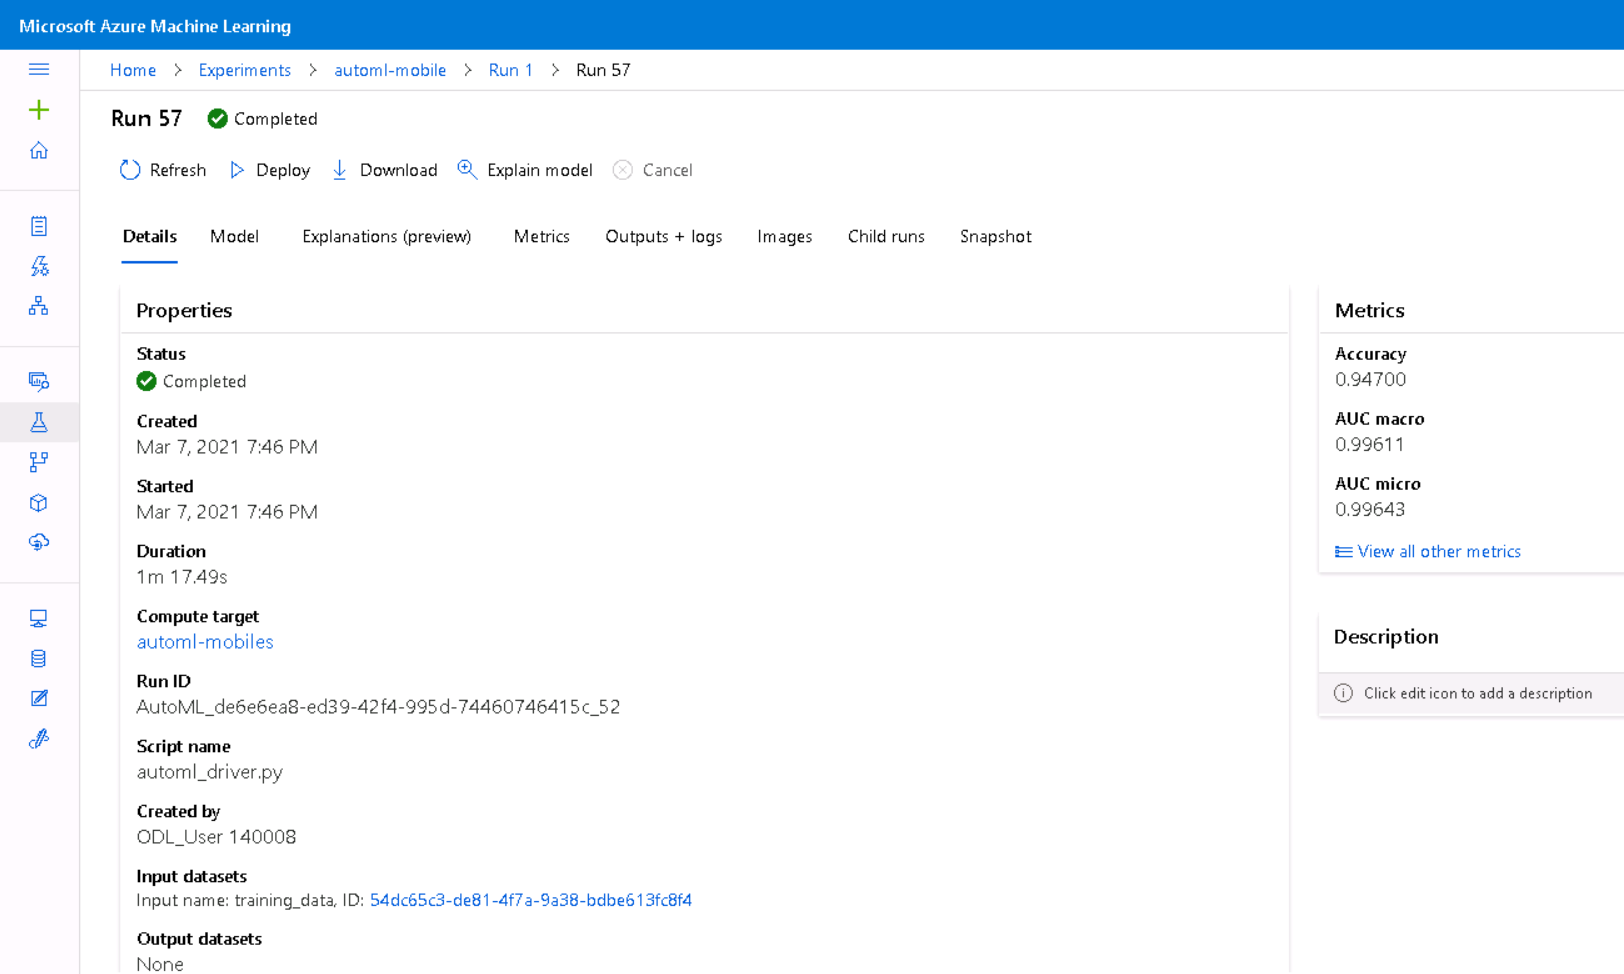
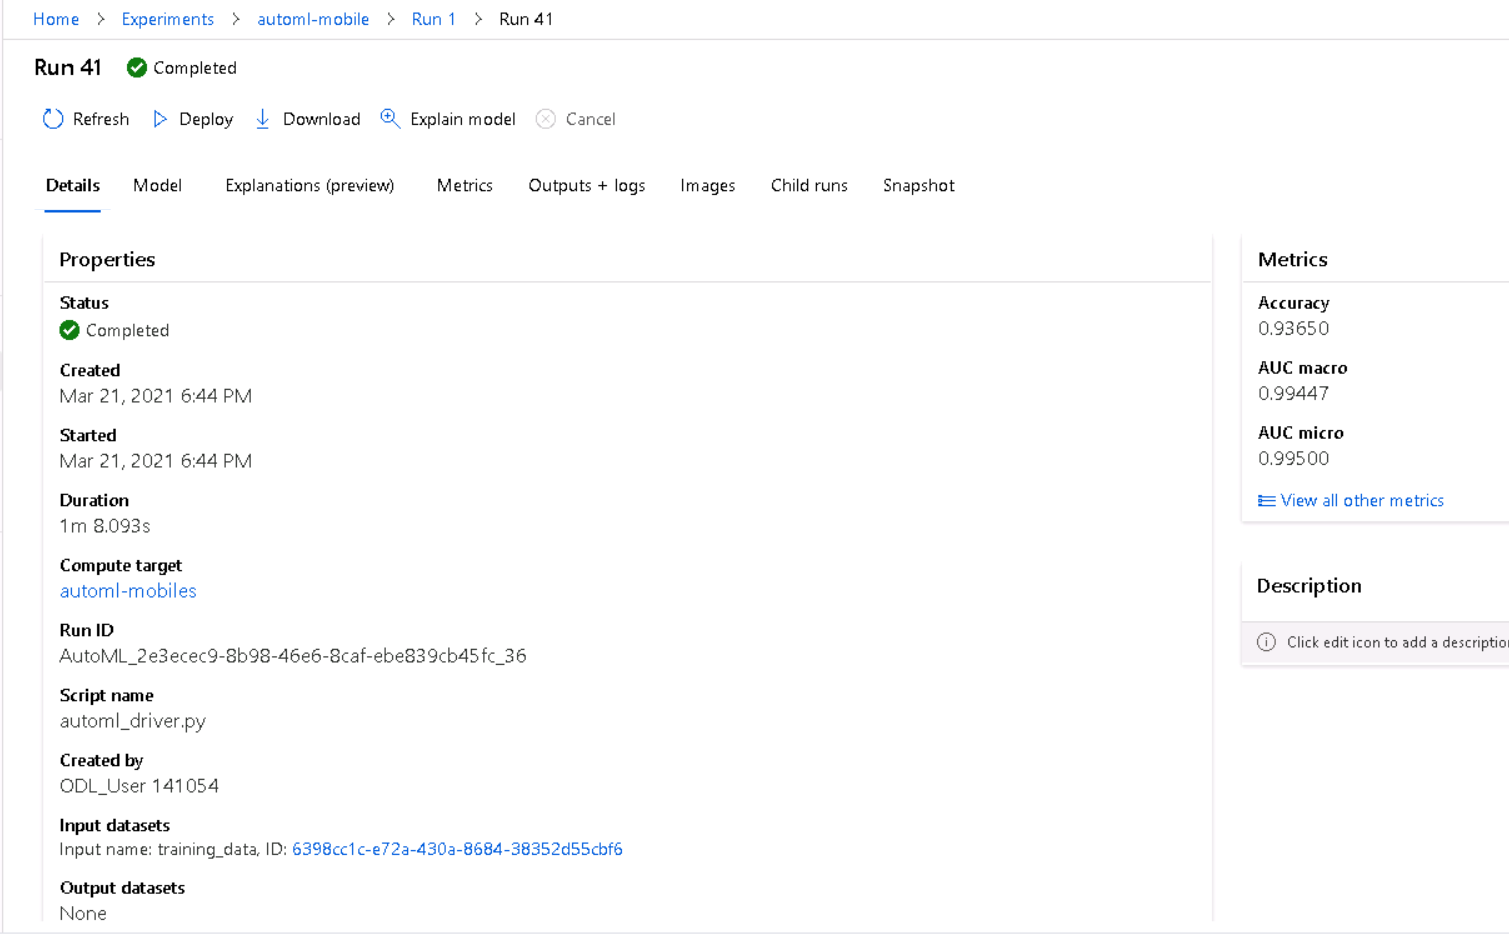
pre-submission

diff --git a/README.md b/README.md
@@ -109,6 +109,14 @@ consume this dataset.
 </figure>
 
 ## Automated ML
+
+**IMPORTANT**
+
+To run the AutoML part, you have to upload these files:
+1. Upload automl.ipynb to Notebooks VM
+2. Upload dependencies folder
+3. Upload scoring_file_v_1_0_0_0.py
+
 Once we have some sensitivity about data, we are going to train a classifier 
 using an ML model. Modeling is an art but we have some interesting tools that 
 help us to obtain an acceptable ML model without doing much feature engineering.
@@ -220,7 +228,7 @@ obtained.
 
 In Figure 7 we can observe a list of models, sorted by Accuracy (our primary metric).
 In the first position, the best model is shown: it is a `Voting Ensemble` model
-which provides predictions with a 94.7% accuracy on cross validation. This is the
+which provides predictions with a 93.65% accuracy on cross validation. This is the
 model that we are going to compare with the one obtained using HyperDrive in order 
 to choose which one deploy. In Figure 8, Details about the mentioned model are 
 displayed.
@@ -246,7 +254,7 @@ relationship with Target feature.
 </figure>
 
 What can be concluded from Figure 9 and 10 is that this model works with impressing
-results. The 94% of accuracy can be checked as real because this happens for all
+results. The 93.65% of accuracy can be checked as real because this happens for all
 of the classes. This is a quite well informed dataset and, as it's well known, 
 good data can easily lead to good models.
 
@@ -379,13 +387,18 @@ as many as max_clusters we've set up for our Compute Cluster instance.
 
 ### Results
 
-Finally, we obtain a 93% of accuracy which is a bit worst than the one from AutoML so that we are going to deploy the first one.
+Finally, we obtain a 93.25% of accuracy which is a bit worst than the one from AutoML so that we are going to deploy the first one.
 
 <figure>
     <img src='img/hyperdrive_best.png' alt='hyperdrive_best' style="width:100%"/>
     <figcaption style="text-align:center">Figure 16: Performance for our hyperdrive model.</figcaption>
 </figure>
 
+The hyperparameters obtained are a learning rate of 0.14, which is related to the 
+velocity of the gradient-descent optimization. It is quite surprising that the 
+max_depth is very low (minimum of the range) which could lead to underfitting.
+However, this is compensed with a slow number of leaves which usually carries to 
+an overspecialization of the model,
 
 The model could have been improved with:
 * Better Optimization:
@@ -403,15 +416,20 @@ The model could have been improved with:
     <figcaption style="text-align:center">Figure 17: HyperDrive best model details.</figcaption>
 </figure>
 
-<figure>
-    <img src='img/RunDetails.png' alt='RunDetails' style="width:100%"/>
-    <figcaption style="text-align:center">Figure 18: HyperDrive RunDetails widget.</figcaption>
-</figure>
+
 
 <figure>
     <img src='img/RunDetails2.png' alt='RunDetails2' style="width:100%"/>
-    <figcaption style="text-align:center">Figure 19: HyperDrive RunDetails widget.</figcaption>
+    <figcaption style="text-align:center">Figure 18: HyperDrive RunDetails widget.</figcaption>
 </figure>
+
+Finally, the registered model is shown in the Figure below
+
+<figure>
+    <img src='img/HyperDriveRegistered.png' alt='HyperDriveRegistered' style="width:100%"/>
+    <figcaption style="text-align:center">Figure 19: HyperDrive Registered model.</figcaption>
+</figure>
+
 
 ## Model Deployment
 Now that we know that the best performing model is the one obtained using AutoML, we can deploy it as a Web Service and consume it.
@@ -420,7 +438,7 @@ Once the best AutoML model is obtained, we access to it and download scoring_fil
 
 <figure>
     <img src='img/endpoint_deploy.png' alt='deploy_endpoint' style="width:100%"/>
-    <figcaption style="text-align:center">Figure 20: Code chunk to publish AutoML to automl-mobile-sdk-2 endpoint.</figcaption>
+    <figcaption style="text-align:center">Figure 20: Code chunk to publish AutoML to automl-mobile-sdk-4 endpoint.</figcaption>
 </figure>
 
 <figure>
@@ -442,6 +460,14 @@ Finally, we delete the computer target and the service because we are not using 
     <figcaption style="text-align:center">Figure 23: Delete Computer Instances.</figcaption>
 </figure>
 
+**QUERY ENDPOINT**
+
+If you want to query the endpoint, you can do it sending a post request to the 
+URI shown in the Figure 22 (or the new one obtained if a new endpoint is created with the same model)
+with the data structure shown in data.json file. Then, you are going to receive 
+a response like the one shown.
+
+
 ## Screen Recording
 
 Clicking on the following picture you can watch a **5 minutes video** with 
@@ -451,6 +477,7 @@ explanations about the content of the project.
 
 ## Standout Suggestions
 
+## Future Improvements
 For future improvements, we propose:
 
 * Convert the model to ONNX format.
